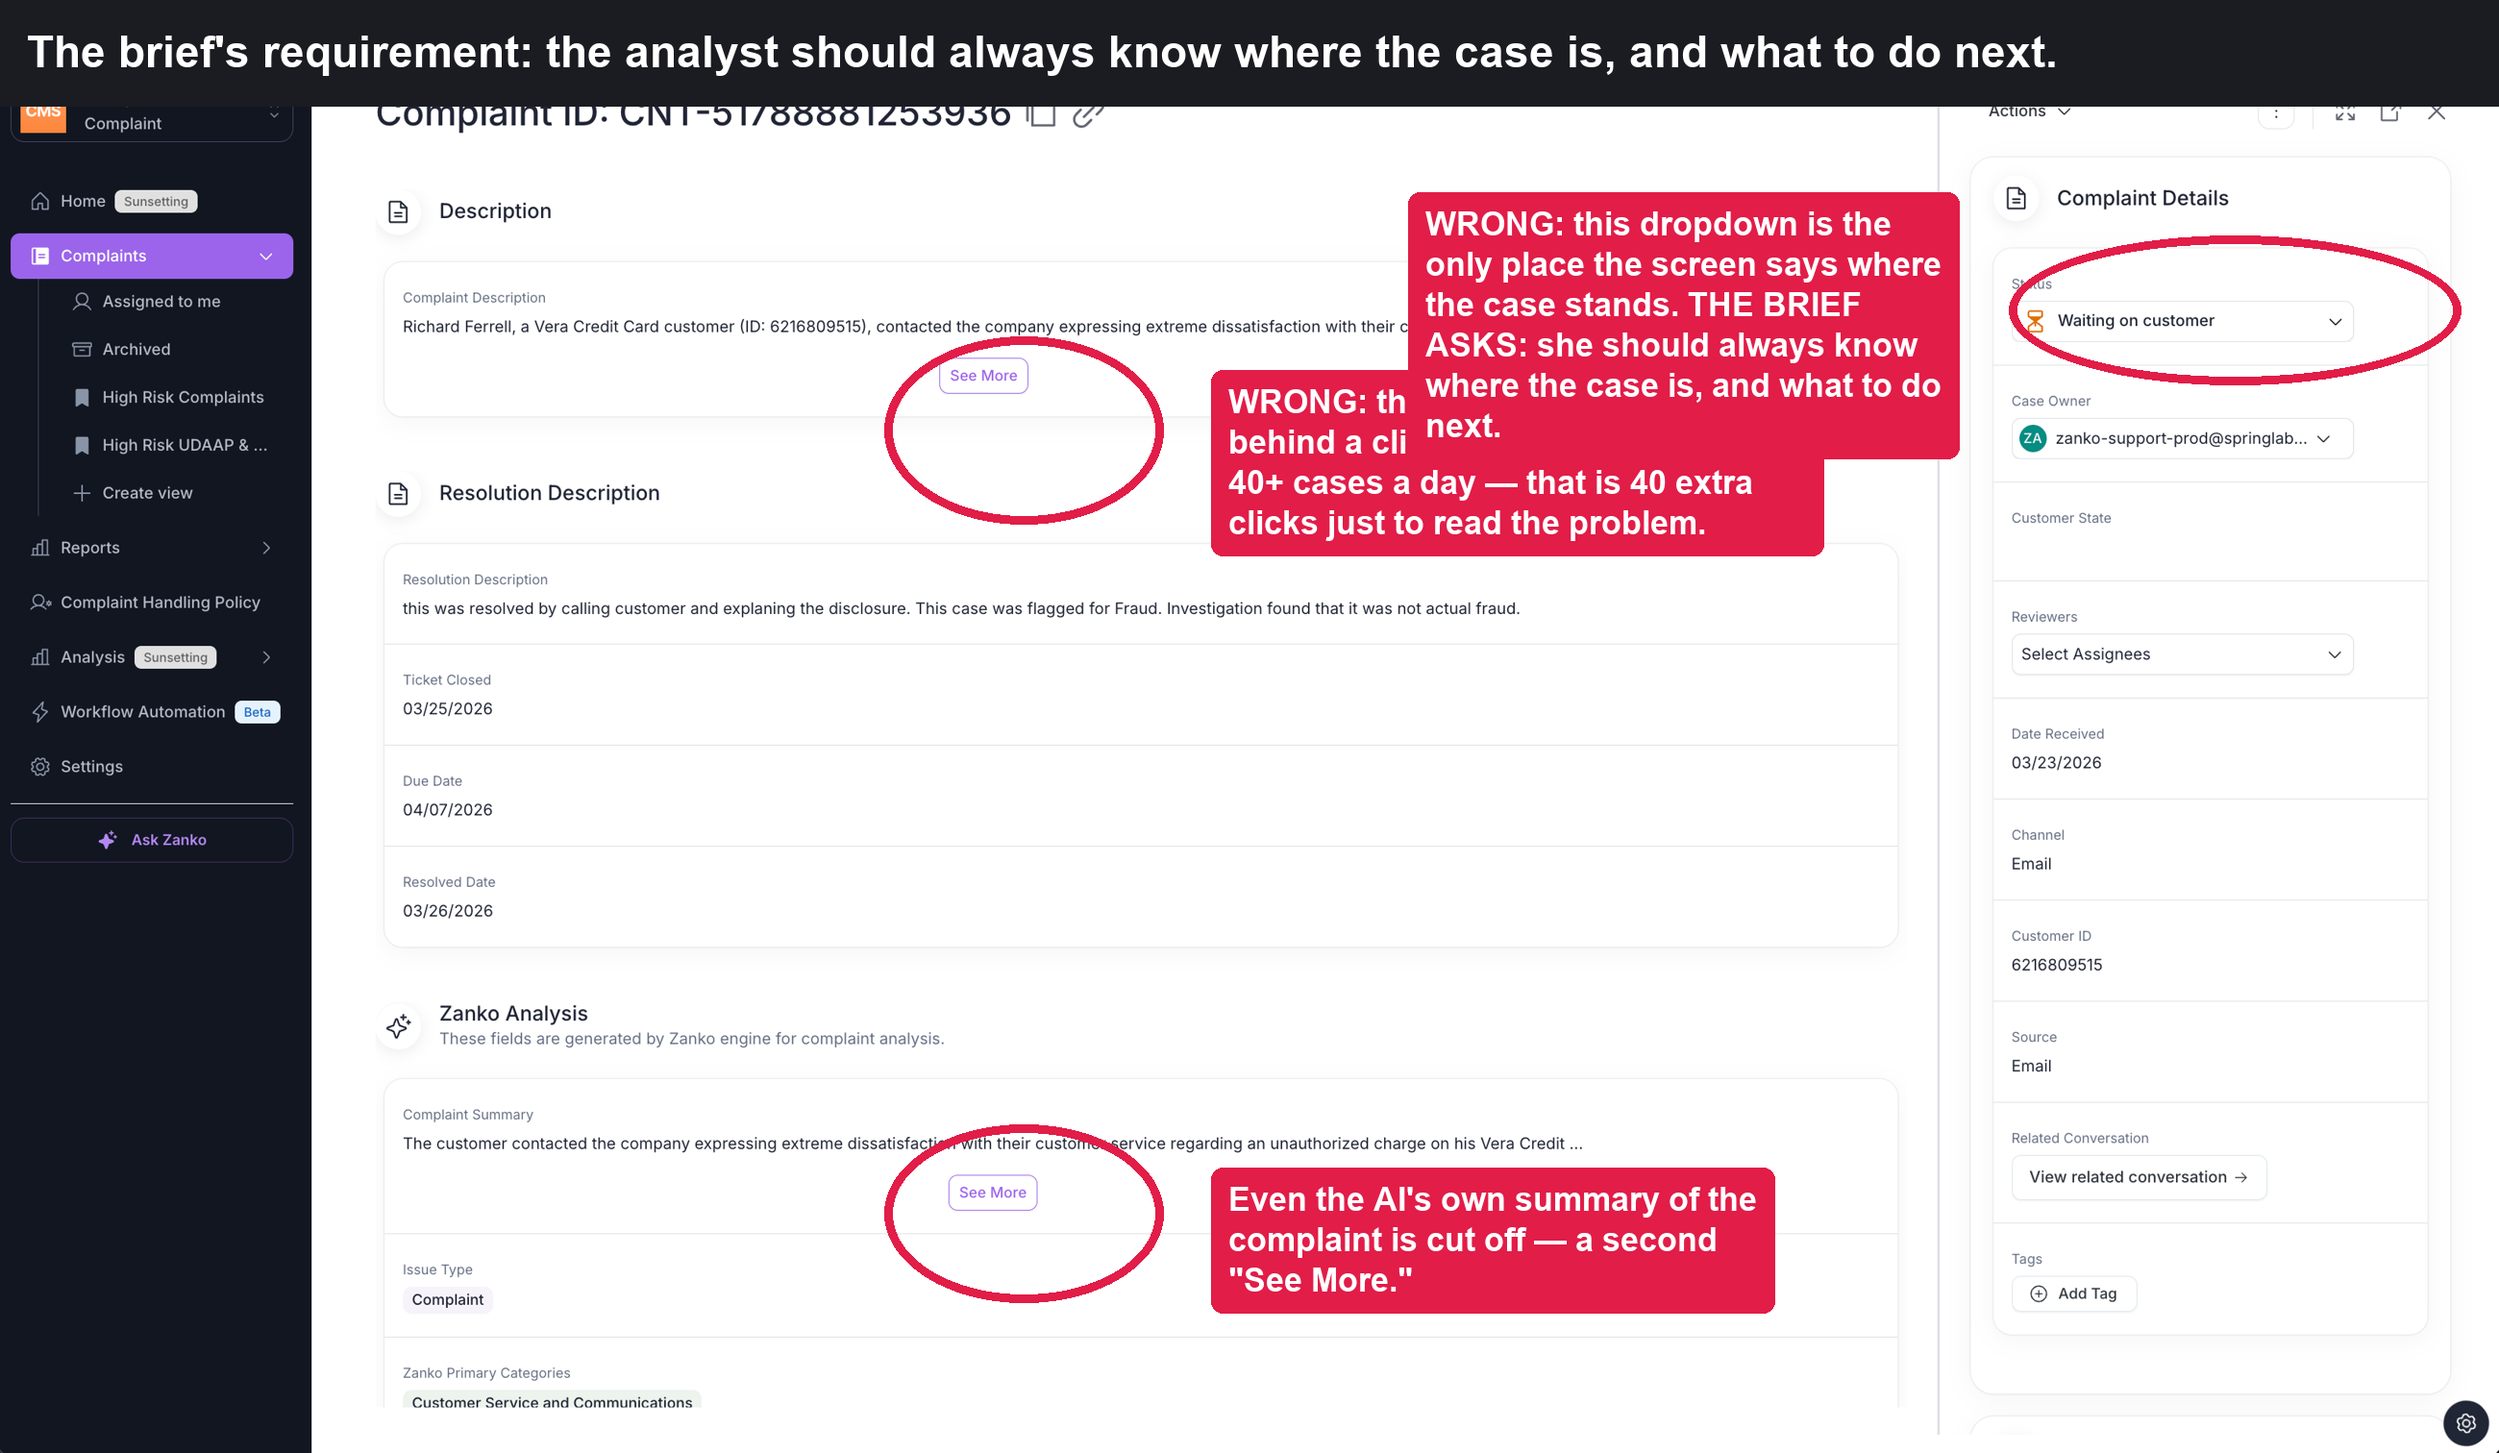
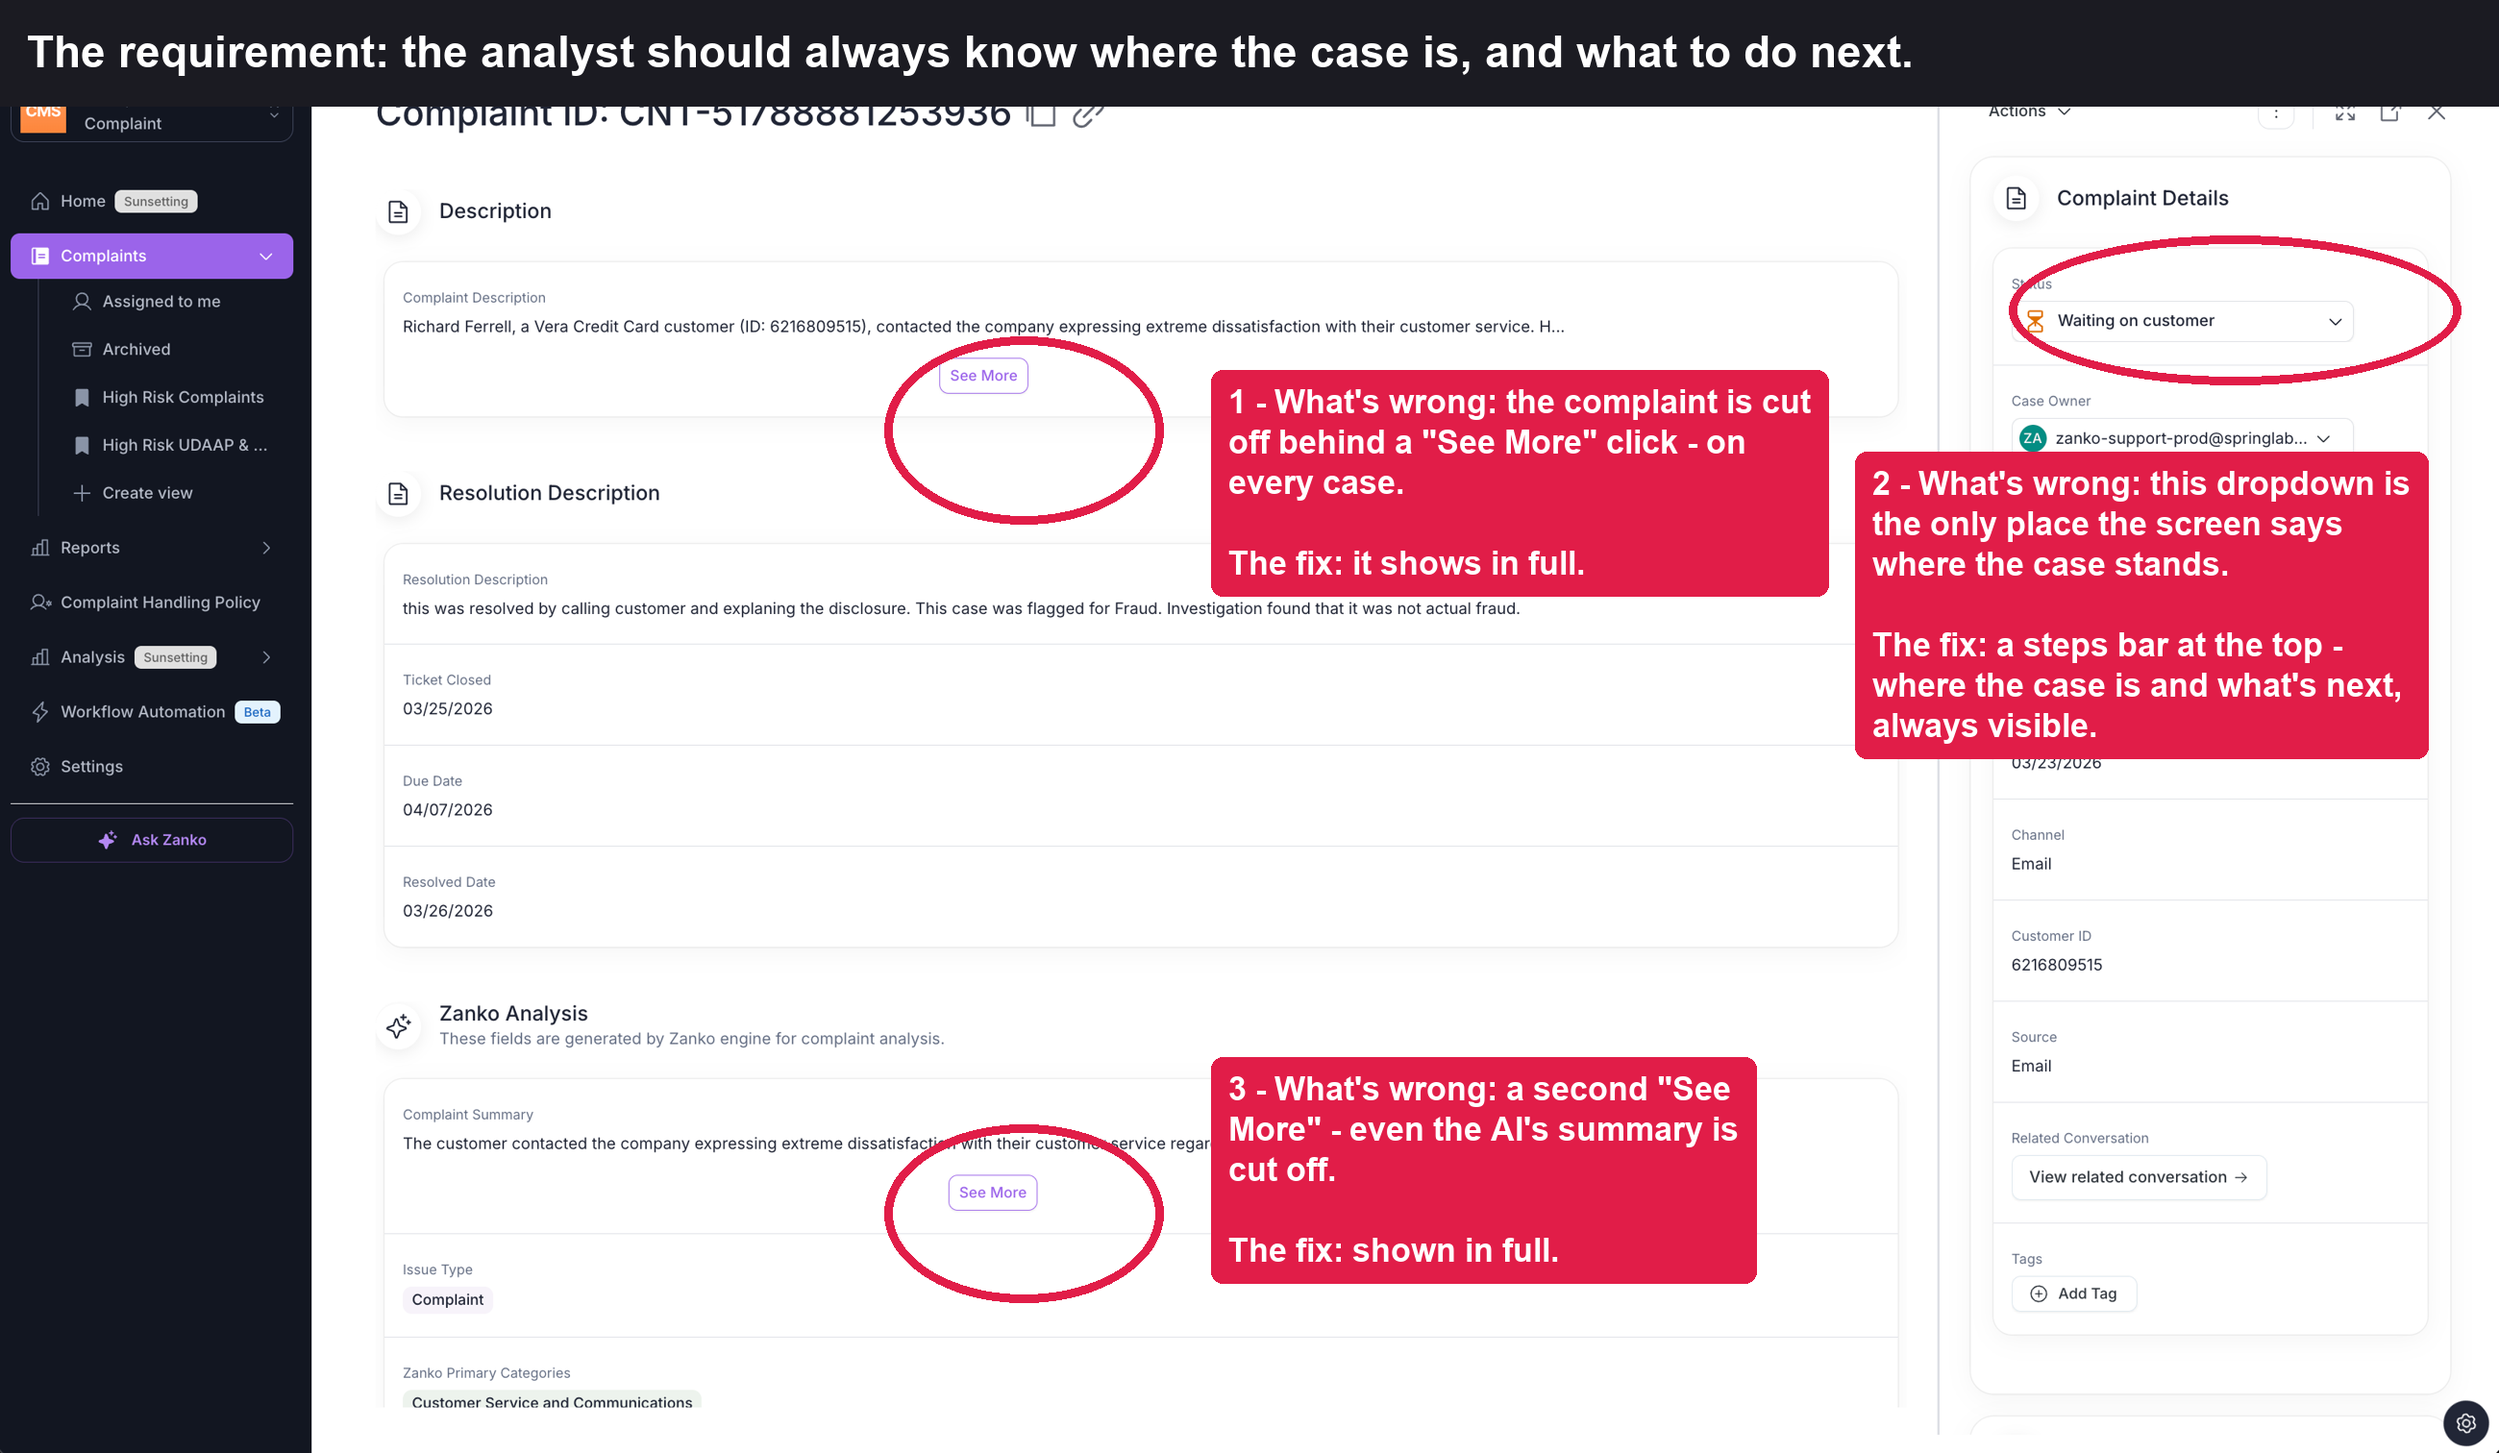
Demo strip shows only the states the demo uses
Analyst-disagreed and Resolved come off the strip: resolving happens
live through the real clicks, and disagreeing stays available on the
analysis card itself.

Changed region(s): [[0.4673, 0.1243, 0.9969, 0.5284], [0.4673, 0.7149, 0.7165, 0.9015], [0.0623, 0.0311, 0.81, 0.0622]]

diff --git a/proto.js b/proto.js
@@ -35,9 +35,7 @@ const SCENARIOS = {
   default:    { label: "Respond stage" },
   long:       { label: "Long complaint" },
   lowconf:    { label: "Low-confidence AI" },
-  overridden: { label: "Analyst disagreed" },
   overdue:    { label: "Overdue" },
-  resolved:   { label: "Resolved" },
 };
 
 function setScenario(name) {
